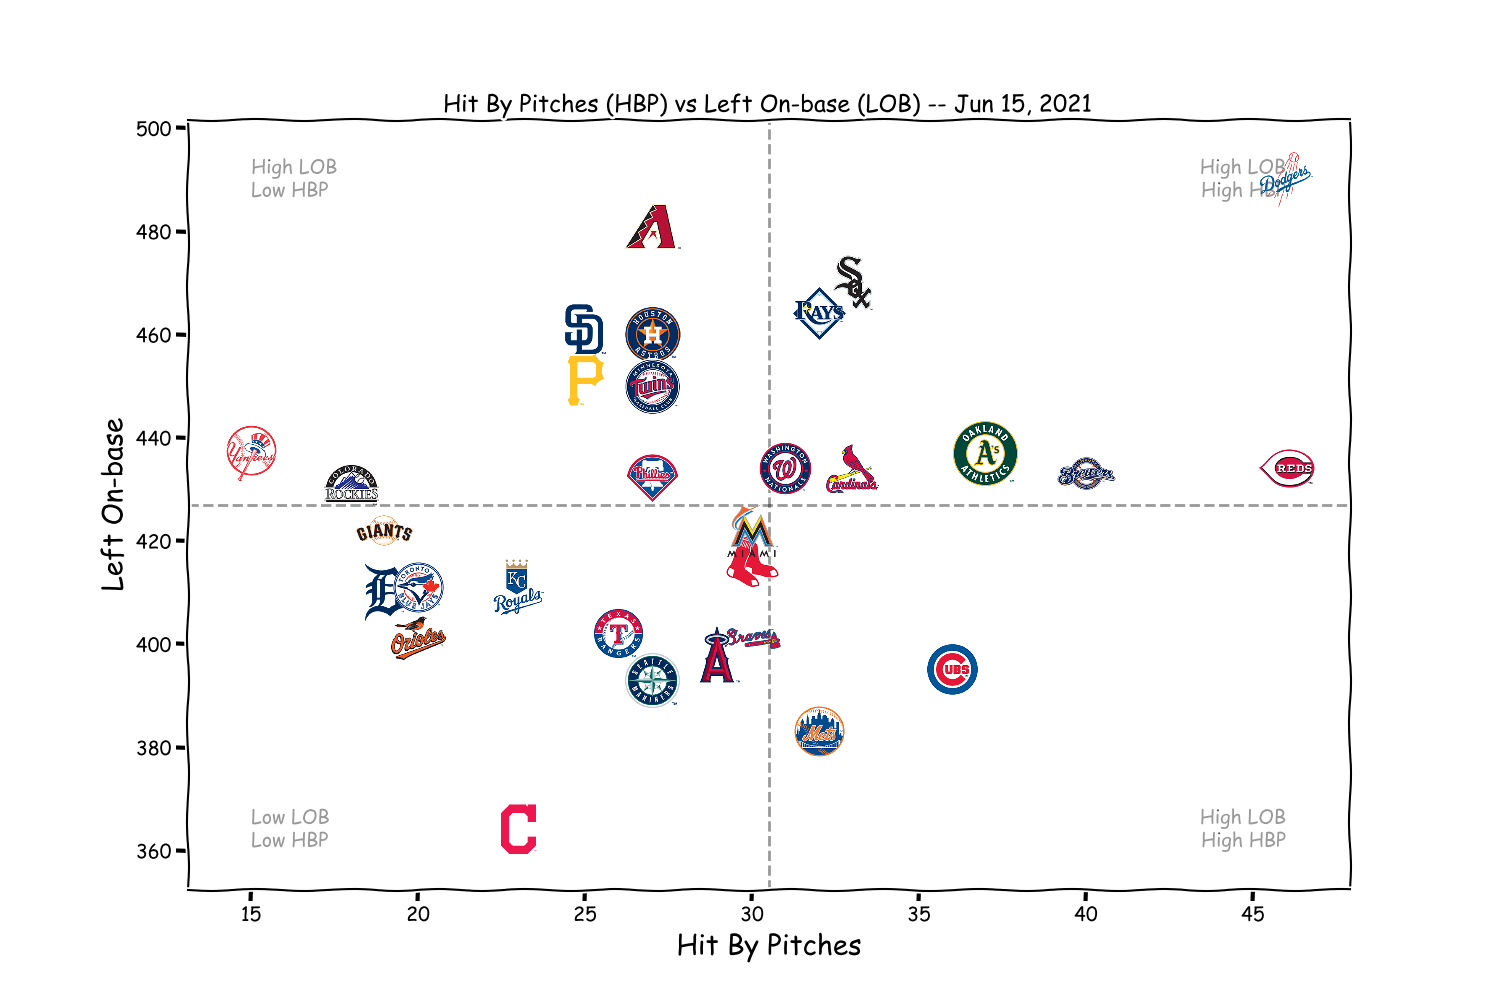
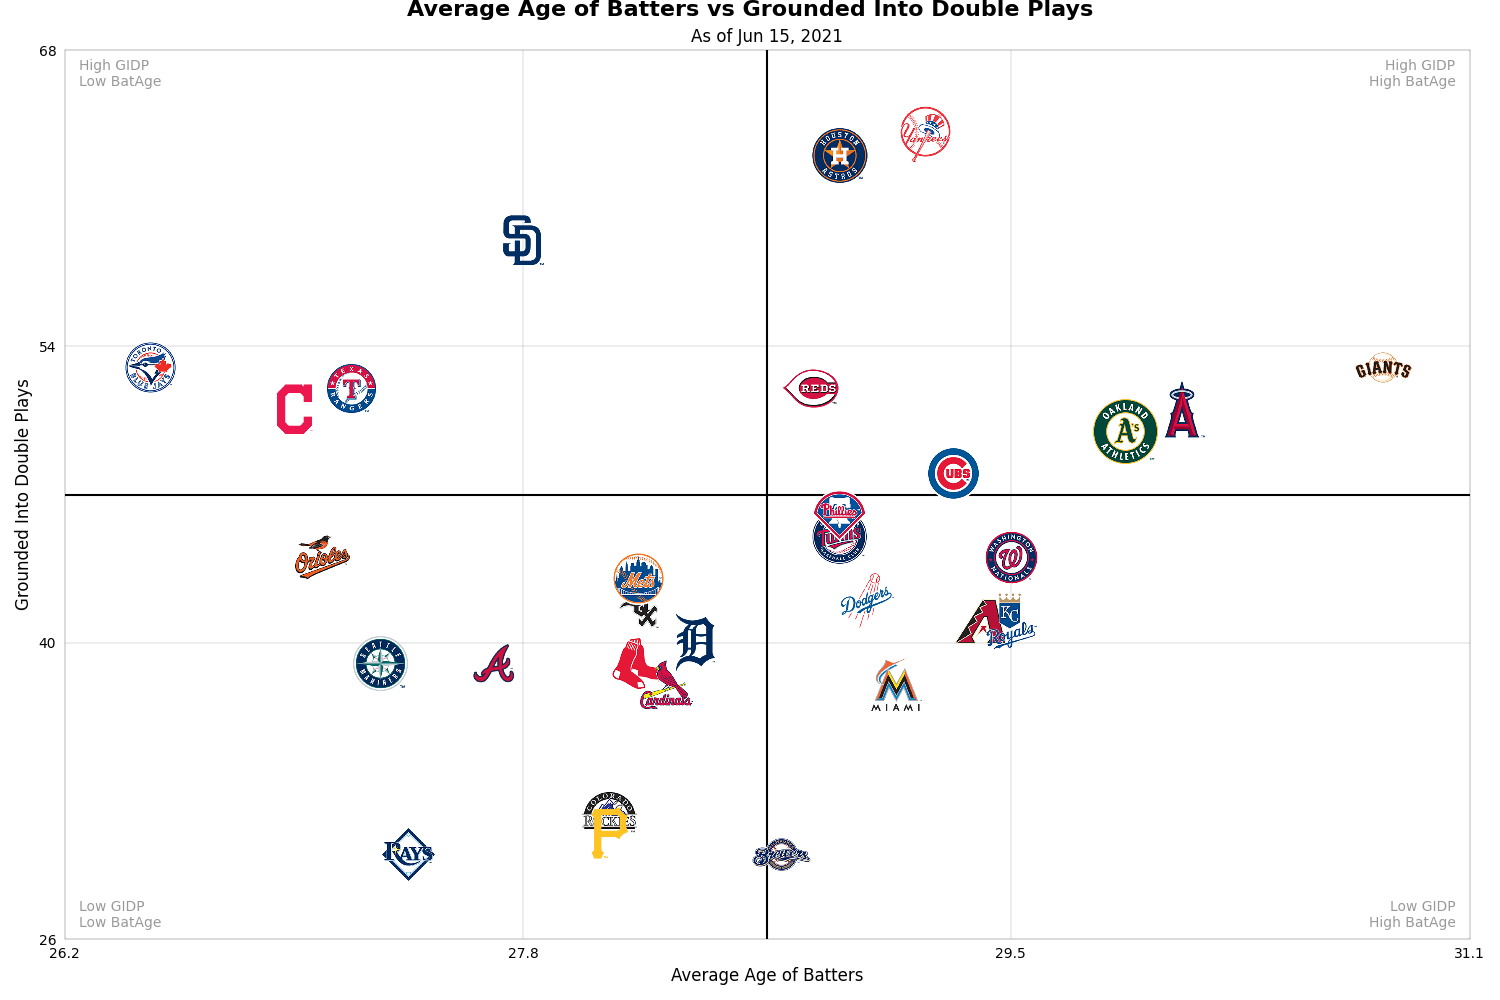
cleaned up graph look from xkcd theme

diff --git a/templates/index.html b/templates/index.html
@@ -20,6 +20,7 @@
         <input type="text" id="stat2" value="{{request.form['ystat']}}" name="ystat">
         <button type="submit" id="gen_script" name="submit_button">Generate</button>
     </form>
+    <br/>
     <img src="{{ result_image }}" alt="" visible="{{ show_image }}">
 
     <script>

diff --git a/graph_gen.py b/graph_gen.py
@@ -1,3 +1,5 @@
+import math
+
 import matplotlib.pyplot as plt
 from matplotlib.offsetbox import OffsetImage, AnnotationBbox
 import seaborn as sns
@@ -7,14 +9,13 @@ import os
 from matplotlib.patches import Ellipse, Polygon
 from collections import namedtuple
 from datetime import date
-from PIL import Image
+import numpy as np
 
 
 def get_image(path):
     return OffsetImage(plt.imread(path), zoom=0.3)
 
 
-plt.xkcd()
 Bounds = namedtuple('Bounds', 'bottom_left top_right')
 Point = namedtuple('Point', 'x y')
 
@@ -47,16 +48,16 @@ def overlap_percent(bound_a, bound_b):
 
     # using area of overlap, area of both bounding boxes, calc the percentage of overlap
     overlap_percentage = area_overlap / (area_bound_a + area_bound_b - area_overlap)
-    return overlap_percentage
+    return round(overlap_percentage, 1)
 
 
 def overlapping_images(x, y, fig, ax, imgs):
     fig.canvas.draw()
-    xmin, xmax = plt.xlim()
-    ymin, ymax = plt.ylim()
+    xmin, xmax = ax.get_xlim()
+    ymin, ymax = ax.get_ylim()
     # for adding text labels, calc small increment in relation to x and y scale
-    xincrement = (xmax - xmin) / 1000
-    yincrement = (ymax - ymin) / 1000
+    xincrement = (xmax - xmin) / 100
+    yincrement = (ymax - ymin) / 100
 
     # amount of overlap needed at minimum to result in editing graph
     overlap_threshold = 0.7
@@ -128,7 +129,7 @@ def overlapping_images(x, y, fig, ax, imgs):
                     arrow = ax.annotate('', xy=(arrow_x, arrow_y), xytext=(text_x, text_y),
                                         arrowprops=dict(arrowstyle='-', lw=1), fontsize='small',
                                         fontstretch='ultra-condensed')
-                    text = ax.text(text_x, text_y, team_a, fontsize='small', fontstretch='ultra-condensed')
+                    text = ax.text(text_x, text_y, team_a)
                     text_bbox = text.get_window_extent().inverse_transformed(ax.transData)
                     text_bottom_left = Point(text_bbox.x0, text_bbox.y0)
                     text_top_right = Point(text_bbox.x1, text_bbox.y1)
@@ -141,6 +142,7 @@ def overlapping_images(x, y, fig, ax, imgs):
                         text_overlap_percentage = overlap_percent(text_bounds, box)
                         if text_overlap_percentage > overlap_threshold:
                             readjust = True
+                            arrow.remove()
                             break
                     # continuously readjust until a spot is found
                     while readjust:
@@ -169,7 +171,9 @@ def overlapping_images(x, y, fig, ax, imgs):
                                 arrow = ax.annotate('', xy=(arrow_x, arrow_y), xytext=coord,
                                             arrowprops=dict(arrowstyle='-', lw=1), fontsize='small',
                                             fontstretch='ultra-condensed')
-                                text = ax.text(coord[0], coord[1], team_a, fontsize='small', fontstretch='ultra-condensed')
+                                text = ax.text(coord[0], coord[1], team_a)
+                                print(f'text x,y = {coord[0]},{coord[1]}')
+                                print(f'arrow x,y = {arrow_x},{arrow_y}')
                                 break
 
                     # add text to bounding boxes
@@ -191,6 +195,10 @@ def generate(x, y, text=False):
     :param x: x-axis data
     :param y: y-axis data
     """
+    # increase spacing from axis tick label and axis itself
+    plt.rcParams['xtick.major.pad'] = '6'
+    plt.rcParams['ytick.major.pad'] = '6'
+
     fig, ax = plt.subplots(figsize=(15, 10))
     # increase axes limits to fit edge images inside graph
     xmin, xmax = x.min(), x.max()
@@ -200,21 +208,45 @@ def generate(x, y, text=False):
     x_pixels_per_unit = width / (xmax - xmin)
     y_pixels_per_unit = height / (ymax - ymin)
 
-    new_xmin = xmin - (75 / x_pixels_per_unit)
-    new_xmax = xmax + (75 / x_pixels_per_unit)
+    new_xmin = math.floor((xmin - (75 / x_pixels_per_unit)) * 10) / 10
+    new_xmax = math.ceil((xmax + (75 / x_pixels_per_unit)) * 10) / 10
 
-    plt.xlim(new_xmin, new_xmax)
+    # set x and y axis to 4 ticks total with even spacing
+    ax.set_xlim(new_xmin, new_xmax)
+    diff = new_xmax - new_xmin
+    xtick_one = round((1/3) * diff + new_xmin, 1)
+    xtick_two = round(new_xmax - (1/3) * diff, 1)
+    plt.xticks([new_xmin, xtick_one, xtick_two, new_xmax])
 
-    new_ymin = ymin - (75 / y_pixels_per_unit)
-    new_ymax = ymax + (75 / y_pixels_per_unit)
+    new_ymin = math.floor(ymin - (75 / y_pixels_per_unit))
+    new_ymax = math.ceil(ymax + (75 / y_pixels_per_unit))
 
-    plt.ylim(new_ymin, new_ymax)
+    ax.set_ylim(new_ymin, new_ymax)
+    diff = new_ymax - new_ymin
+    ytick_one = round((1 / 3) * diff + new_ymin, 1)
+    ytick_two = round(new_ymax - (1 / 3) * diff, 1)
+    plt.yticks([new_ymin, ytick_one, ytick_two, new_ymax])
+
+    ax.tick_params(axis=u'both', which=u'both', length=0)
+
+    for axis in ['top', 'bottom', 'left', 'right']:
+        ax.spines[axis].set_linewidth(0.2)
 
     # plot intersecting lines for quadrants
-    plt.vlines(x=(new_xmin + new_xmax) / 2, ymin=new_ymin, ymax=new_ymax, linestyles='dashed',
-               colors=(0.0, 0.0, 0.0, 0.4))
-    plt.hlines(y=(new_ymin + new_ymax) / 2, xmin=new_xmin, xmax=new_xmax, linestyles='dashed',
-               colors=(0.0, 0.0, 0.0, 0.4))
+    plt.vlines(x=(new_xmin + new_xmax) / 2, ymin=new_ymin, ymax=new_ymax,
+               colors=(0.0, 0.0, 0.0, 1.0))
+    plt.hlines(y=(new_ymin + new_ymax) / 2, xmin=new_xmin, xmax=new_xmax,
+               colors=(0.0, 0.0, 0.0, 1.0))
+
+    # plot lines for each tick
+    plt.vlines(x=xtick_one, ymin=new_ymin, ymax=new_ymax, linewidth=0.2,
+               colors=(0.0, 0.0, 0.0, 0.5))
+    plt.vlines(x=xtick_two, ymin=new_ymin, ymax=new_ymax, linewidth=0.2,
+               colors=(0.0, 0.0, 0.0, 0.5))
+    plt.hlines(y=ytick_one, xmin=new_xmin, xmax=new_xmax, linewidth=0.2,
+               colors=(0.0, 0.0, 0.0, 0.5))
+    plt.hlines(y=ytick_two, xmin=new_xmin, xmax=new_xmax, linewidth=0.2,
+               colors=(0.0, 0.0, 0.0, 0.5))
 
     texts = []
     imgs = []
@@ -243,21 +275,26 @@ def generate(x, y, text=False):
     x_abbrev, y_abbrev = x.name, y.name
     x_verbose, y_verbose = data_constants.stats_to_verbose[x_abbrev], data_constants.stats_to_verbose[y_abbrev]
 
-    # top left
-    ax.text(xmin, ymax, f'High {y_abbrev}\nLow {x_abbrev}', ha='left', va='center', color=(0.0, 0.0, 0.0, 0.4))
-    # bottom left
-    ax.text(xmin, ymin, f'Low {y_abbrev}\nLow {x_abbrev}', ha='left', va='center', color=(0.0, 0.0, 0.0, 0.4))
-    # top right
-    ax.text(xmax, ymax, f'High {y_abbrev}\nHigh {x_abbrev}', ha='right', va='center', color=(0.0, 0.0, 0.0, 0.4))
-    # bottom right
-    ax.text(xmax, ymin, f'High {y_abbrev}\nHigh {x_abbrev}', ha='right', va='center', color=(0.0, 0.0, 0.0, 0.4))
+    xincrement = (new_xmax - new_xmin) / 100
+    yincrement = (new_ymax - new_ymin) / 100
 
-    plt.xlabel(x_verbose, size=20)
-    plt.ylabel(y_verbose, size=20)
+    # top left
+    ax.text(new_xmin + xincrement, new_ymax - yincrement, f'High {y_abbrev}\nLow {x_abbrev}', ha='left', va='top', color=(0.0, 0.0, 0.0, 0.4))
+    # bottom left
+    ax.text(new_xmin + xincrement, new_ymin + yincrement, f'Low {y_abbrev}\nLow {x_abbrev}', ha='left', va='bottom', color=(0.0, 0.0, 0.0, 0.4))
+    # top right
+    ax.text(new_xmax - xincrement, new_ymax - yincrement, f'High {y_abbrev}\nHigh {x_abbrev}', ha='right', va='top', color=(0.0, 0.0, 0.0, 0.4))
+    # bottom right
+    ax.text(new_xmax - xincrement, new_ymin + yincrement, f'Low {y_abbrev}\nHigh {x_abbrev}', ha='right', va='bottom', color=(0.0, 0.0, 0.0, 0.4))
+
+    plt.xlabel(x_verbose, size=12)
+    plt.ylabel(y_verbose, size=12)
 
     d1 = date.today().strftime("%b %d, %Y")
-    plt.title(f'{x_verbose} ({x_abbrev}) vs {y_verbose} ({y_abbrev}) -- {d1}')
-    # plt.tight_layout()
+    plt.suptitle(f'{x_verbose} vs {y_verbose}', ha='center', va='bottom', fontsize=16, weight='bold')
+    plt.title(f'As of {d1}', weight='ultralight')
+    plt.tight_layout()
+    fig.subplots_adjust(top=0.95)
 
     # plt.show()
     plt.draw()
